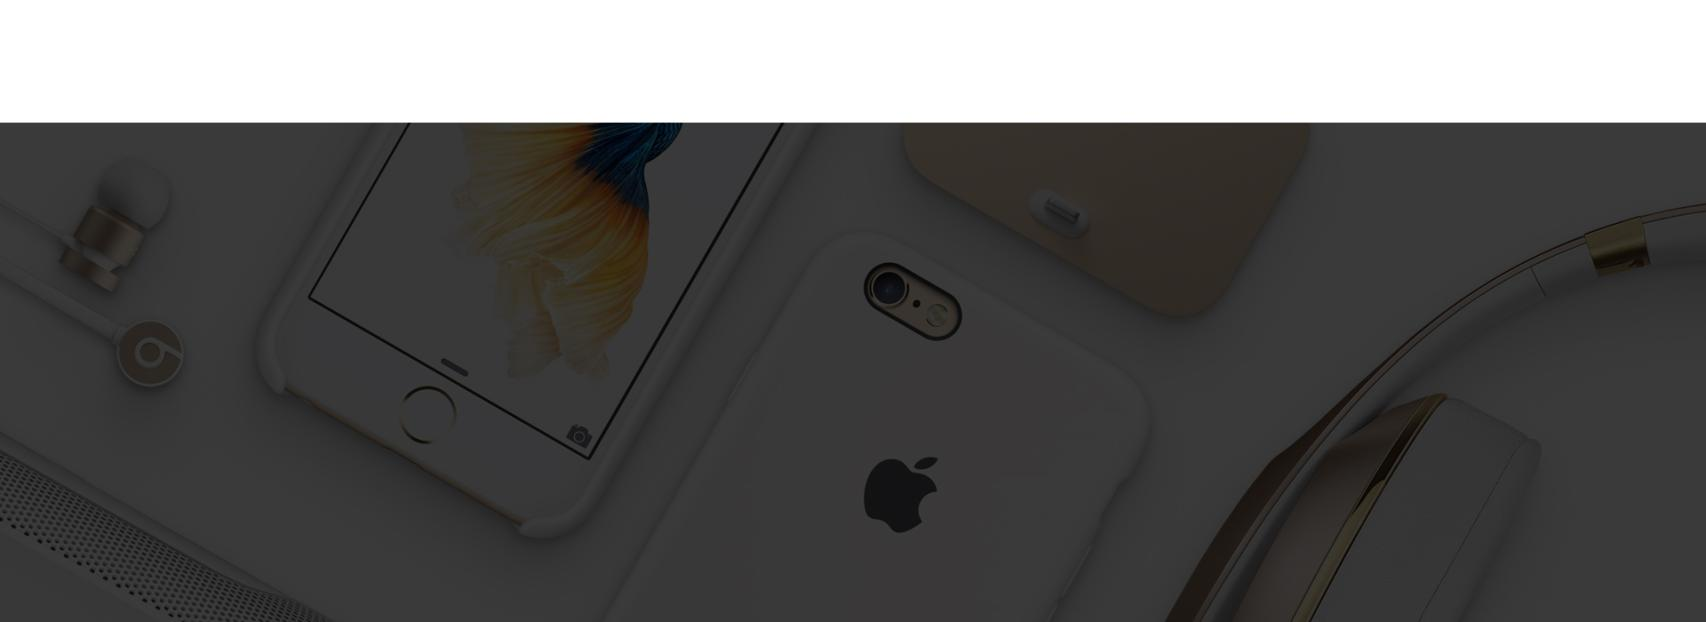
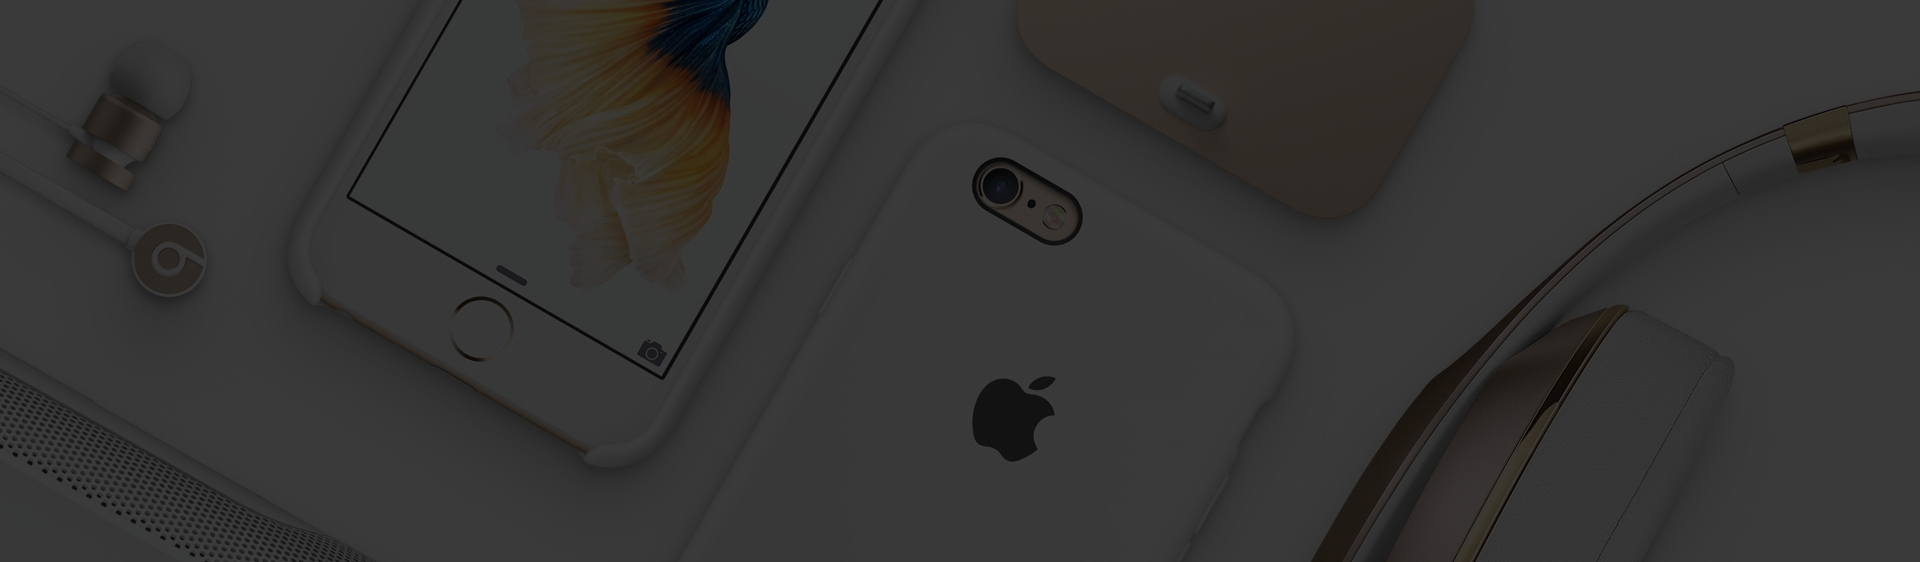
create template

diff --git a/src/components/Menu.js b/src/components/Menu.js
@@ -1,0 +1,95 @@
+import React, { Component } from 'react';
+
+import Row from 'react-bootstrap/lib/Row';
+import Col from 'react-bootstrap/lib/Col';
+import styled from 'styled-components';
+
+
+const Repair = styled.div`
+	color: #464646;
+	font-size: 18px;
+	font-weight: 300;
+	line-height: 22px;
+`
+
+const Worktime = styled.div`
+	font-size: 12px;
+	font-weight: 300;
+	line-height: 24px;
+	color: #2a2a2a;
+	span {
+		display: block;
+		color: #464646;
+		font-size: 21px;
+		font-weight: 500;
+	}
+`
+
+const Calls = styled.div`
+	font-size: 12px;
+	font-weight: 300;
+	line-height: 24px;
+	color: #2a2a2a;
+	span {
+		display: block;
+		color: #464646;
+		font-size: 21px;
+		font-weight: 500;
+	}
+`
+
+const CallButton = styled.button`
+	width: 176px;
+	height: 48px;
+	background-color: #3fc7db;
+	border-radius: 30px;
+	color: #ffffff;
+	font-size: 14px;
+	font-weight: 400;
+`
+
+class TelNumber extends React.Component {
+	render () {
+		return (
+			<span>{this.props.tel}</span>
+			)
+	}
+}
+
+class Adress extends React.Component {
+	render () {
+		return (
+			<span>{this.props.addr}</span>
+			)
+	}
+}
+
+class Menu extends React.Component {
+	render () {
+		return (
+			<Row>
+				<Col lg={3}>
+					<Repair>Ремонт айфонов в сервисном
+					центре на выезде
+					</Repair>
+				</Col>
+				<Col lg={3} lgOffset={1}>
+					<Worktime>Пн-Пт с 10 до 20, сб, вс с 11 до 18
+						<Adress addr="Ленинская, 301"/>
+					</Worktime>
+				</Col>
+				<Col lg={3}>
+					<Calls>Звонки принимаются 24 часа
+						<TelNumber tel="8 (846) 922 55 44" />
+					</Calls>
+				</Col>
+					<CallButton>Заказать звонок!</CallButton>
+				<Col lg={2}>
+
+				</Col>
+			</Row>
+			)
+	}
+}
+
+export default Menu

diff --git a/src/App.js b/src/App.js
@@ -3,17 +3,52 @@ import logo from './logo.svg';
 import './App.css';
 
 import Grid from 'react-bootstrap/lib/Grid';
-import Row from 'react-bootstrap/lib/Row';
-import Col from 'react-bootstrap/lib/Col';
 import styled from 'styled-components';
+
+import Header from './components/Header'
+import Menu from './components/Menu'
+import Main from './components/Main'
+
+const url = process.env.PUBLIC_URL + '/img/bg.jpg'
+
+const HeaderWrapper = styled.header`
+  width: 100%;
+  height: 49px;
+  background-color: #242424;
+  opacity: 0.8;
+`
+
+const MenuWrapper = styled.div`
+  height: 89px;
+  padding-top: 20px;
+`
+
+const MainWrapper = styled.main`
+  height: 600px;
+  padding-top: 130px;
+  background: url(${url}) no-repeat;
+  background-size: cover;
+`
 
 class App extends Component {
   render() {
     return (
-              <div className="wrapper">
-                <SayFullName name="Vasya" surname="Volkov" link="http://vk.com" />
-                <SayFullName name="Vasya" surname="Pyata" link="http://vk.com" />
-                <SayFullName name="Maks" surname="Loskutov" link="http://vk.com" />
+              <div className='app'>
+                <HeaderWrapper>
+                  <Grid>
+                    <Header />
+                  </Grid>
+                </HeaderWrapper>
+                <MenuWrapper>
+                  <Grid>
+                    <Menu />
+                  </Grid>
+                </MenuWrapper>
+                <MainWrapper>
+                  <Grid>
+                    <Main />
+                  </Grid>
+                </MainWrapper>
               </div>
     );
   }

diff --git a/src/components/Main.js b/src/components/Main.js
@@ -1,0 +1,66 @@
+import React, { Component } from 'react';
+
+import Row from 'react-bootstrap/lib/Row';
+import Col from 'react-bootstrap/lib/Col';
+import styled from 'styled-components';
+
+const Repair = styled.div`
+	color: #ffffff;
+	font-weight: 700;
+	line-height: 50px;
+	font-size: 40px;
+	span {
+		display: block;
+		font-size: 24px;
+		line-height: 30px;
+	}
+`
+
+const LightText = styled.div`
+	color: #ffffff;
+	font-size: 18px;
+	font-weight: 300;
+	line-height: 28px;
+	margin-top: 54px;
+`
+
+const TextButton = styled.button`
+	color: #ffffff;
+	font-size: 18px;
+	font-weight: 300;
+	line-height: 28px;
+	border-radius: 30px;
+	color: #ffffff;
+	font-size: 18px;
+	font-weight: bold;
+	line-height: 24px;
+	margin-top: 32px;
+	width: 247px;
+	height: 67px;
+	background-color: #ffa14b;
+`
+
+class Main extends React.Component {
+	render () {
+		return (
+			<Row>
+				<Col lg={5}>
+					<Repair>Качественный ремонт
+						<span>iphone за 35 минут и гарантия 1 год</span>
+					</Repair>
+					<LightText>Оставьте заявку на бесплатную диагностику без очереди,
+							и получите защитное стекло, стоимостью 1000 рублей,
+							с установкой в подарок!
+					</LightText>
+					<TextButton>Отправить заявку!
+					</TextButton>
+				</Col>
+				<Col lg={6} lgOffset={1}>
+
+				</Col>
+			</Row>
+			)
+	}
+}
+
+export default Main

diff --git a/src/components/Header.js b/src/components/Header.js
@@ -1,0 +1,40 @@
+import React, { Component } from 'react';
+
+import Link from './Link'
+
+import Row from 'react-bootstrap/lib/Row';
+import Col from 'react-bootstrap/lib/Col';
+import styled from 'styled-components';
+
+
+const List = styled.ul`
+	display: flex;
+	justify-content: space-between;
+	align-items: center;
+	padding: 0;
+	height: 49px;
+`
+
+class Header extends React.Component {
+	render () {
+		return (
+			<Row>
+				<Col lg={12}>
+					<nav>
+						<List>
+							<Link link='#' text='вызов мастера' />
+							<Link link='#' text='прайс на ремонт' />
+							<Link link='#' text='наши преимущества' />
+							<Link link='#' text='схема работы' />
+							<Link link='#' text='отзывы клиентов' />
+							<Link link='#' text='примеры работ' />
+							<Link link='#' text='контакты' />
+						</List>
+					</nav>
+				</Col>
+			</Row>
+			)
+	}
+}
+
+export default Header

diff --git a/src/components/Link.js b/src/components/Link.js
@@ -1,0 +1,26 @@
+import React, { Component } from 'react';
+import styled from 'styled-components';
+
+const StyledLink = styled.a`
+	color: ${props => props.active ? 'pink' : '#fff'};
+	font-size: 14px;
+	font-weight: 300;
+	line-height: 24px;
+	padding-right: 33px;
+	border-right: 1px dotted #fff
+	&:hover {
+		color: #8d8d8d;
+		text-decoration: none;
+	}
+	&:last-child {
+		border-right: none;
+	}
+`
+
+class Link extends React.Component {
+	render() {
+		return <StyledLink href={this.props.link}>{this.props.text}</StyledLink>
+	}
+}
+
+export default Link

diff --git a/src/App.css b/src/App.css
@@ -1,28 +1,10 @@
+* {
+  outline: none;
+}
 .App {
-  text-align: center;
+  width: 100%;
+  box-sizing: border-box;
+  font-family: "Roboto";
+
 }
 
-.App-logo {
-  animation: App-logo-spin infinite 20s linear;
-  height: 80px;
-}
-
-.App-header {
-  background-color: #222;
-  height: 150px;
-  padding: 20px;
-  color: white;
-}
-
-.App-title {
-  font-size: 1.5em;
-}
-
-.App-intro {
-  font-size: large;
-}
-
-@keyframes App-logo-spin {
-  from { transform: rotate(0deg); }
-  to { transform: rotate(360deg); }
-}
